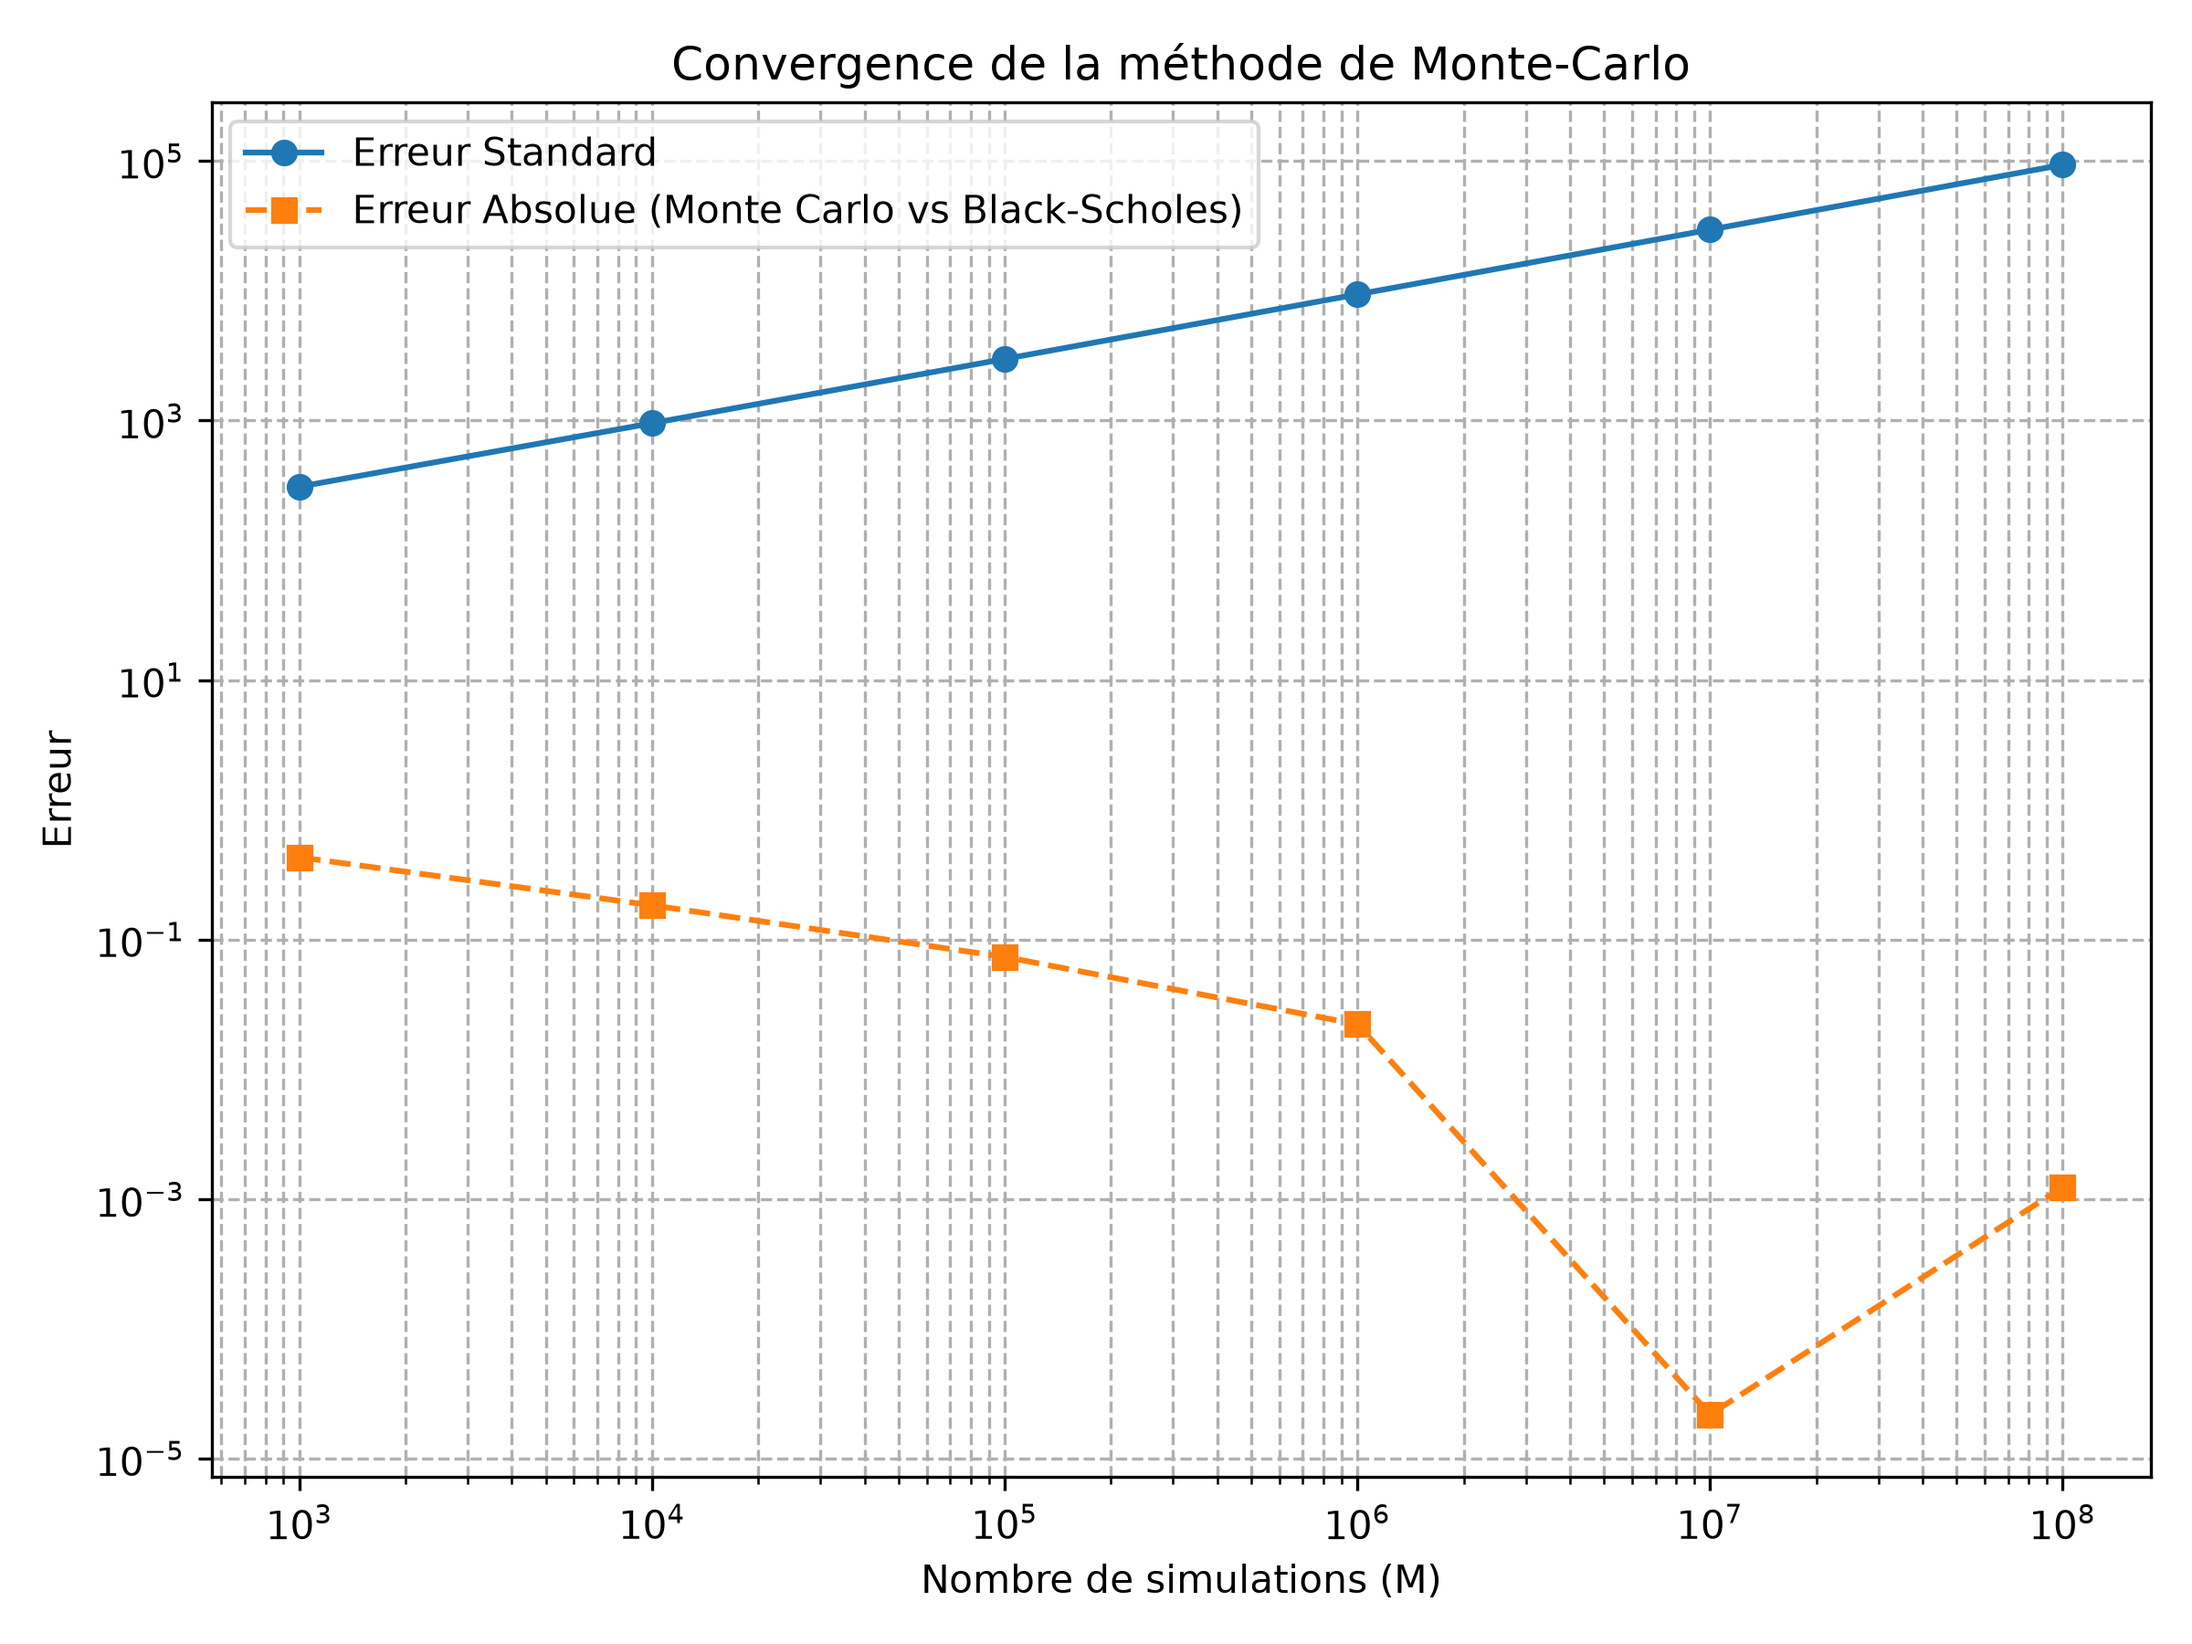
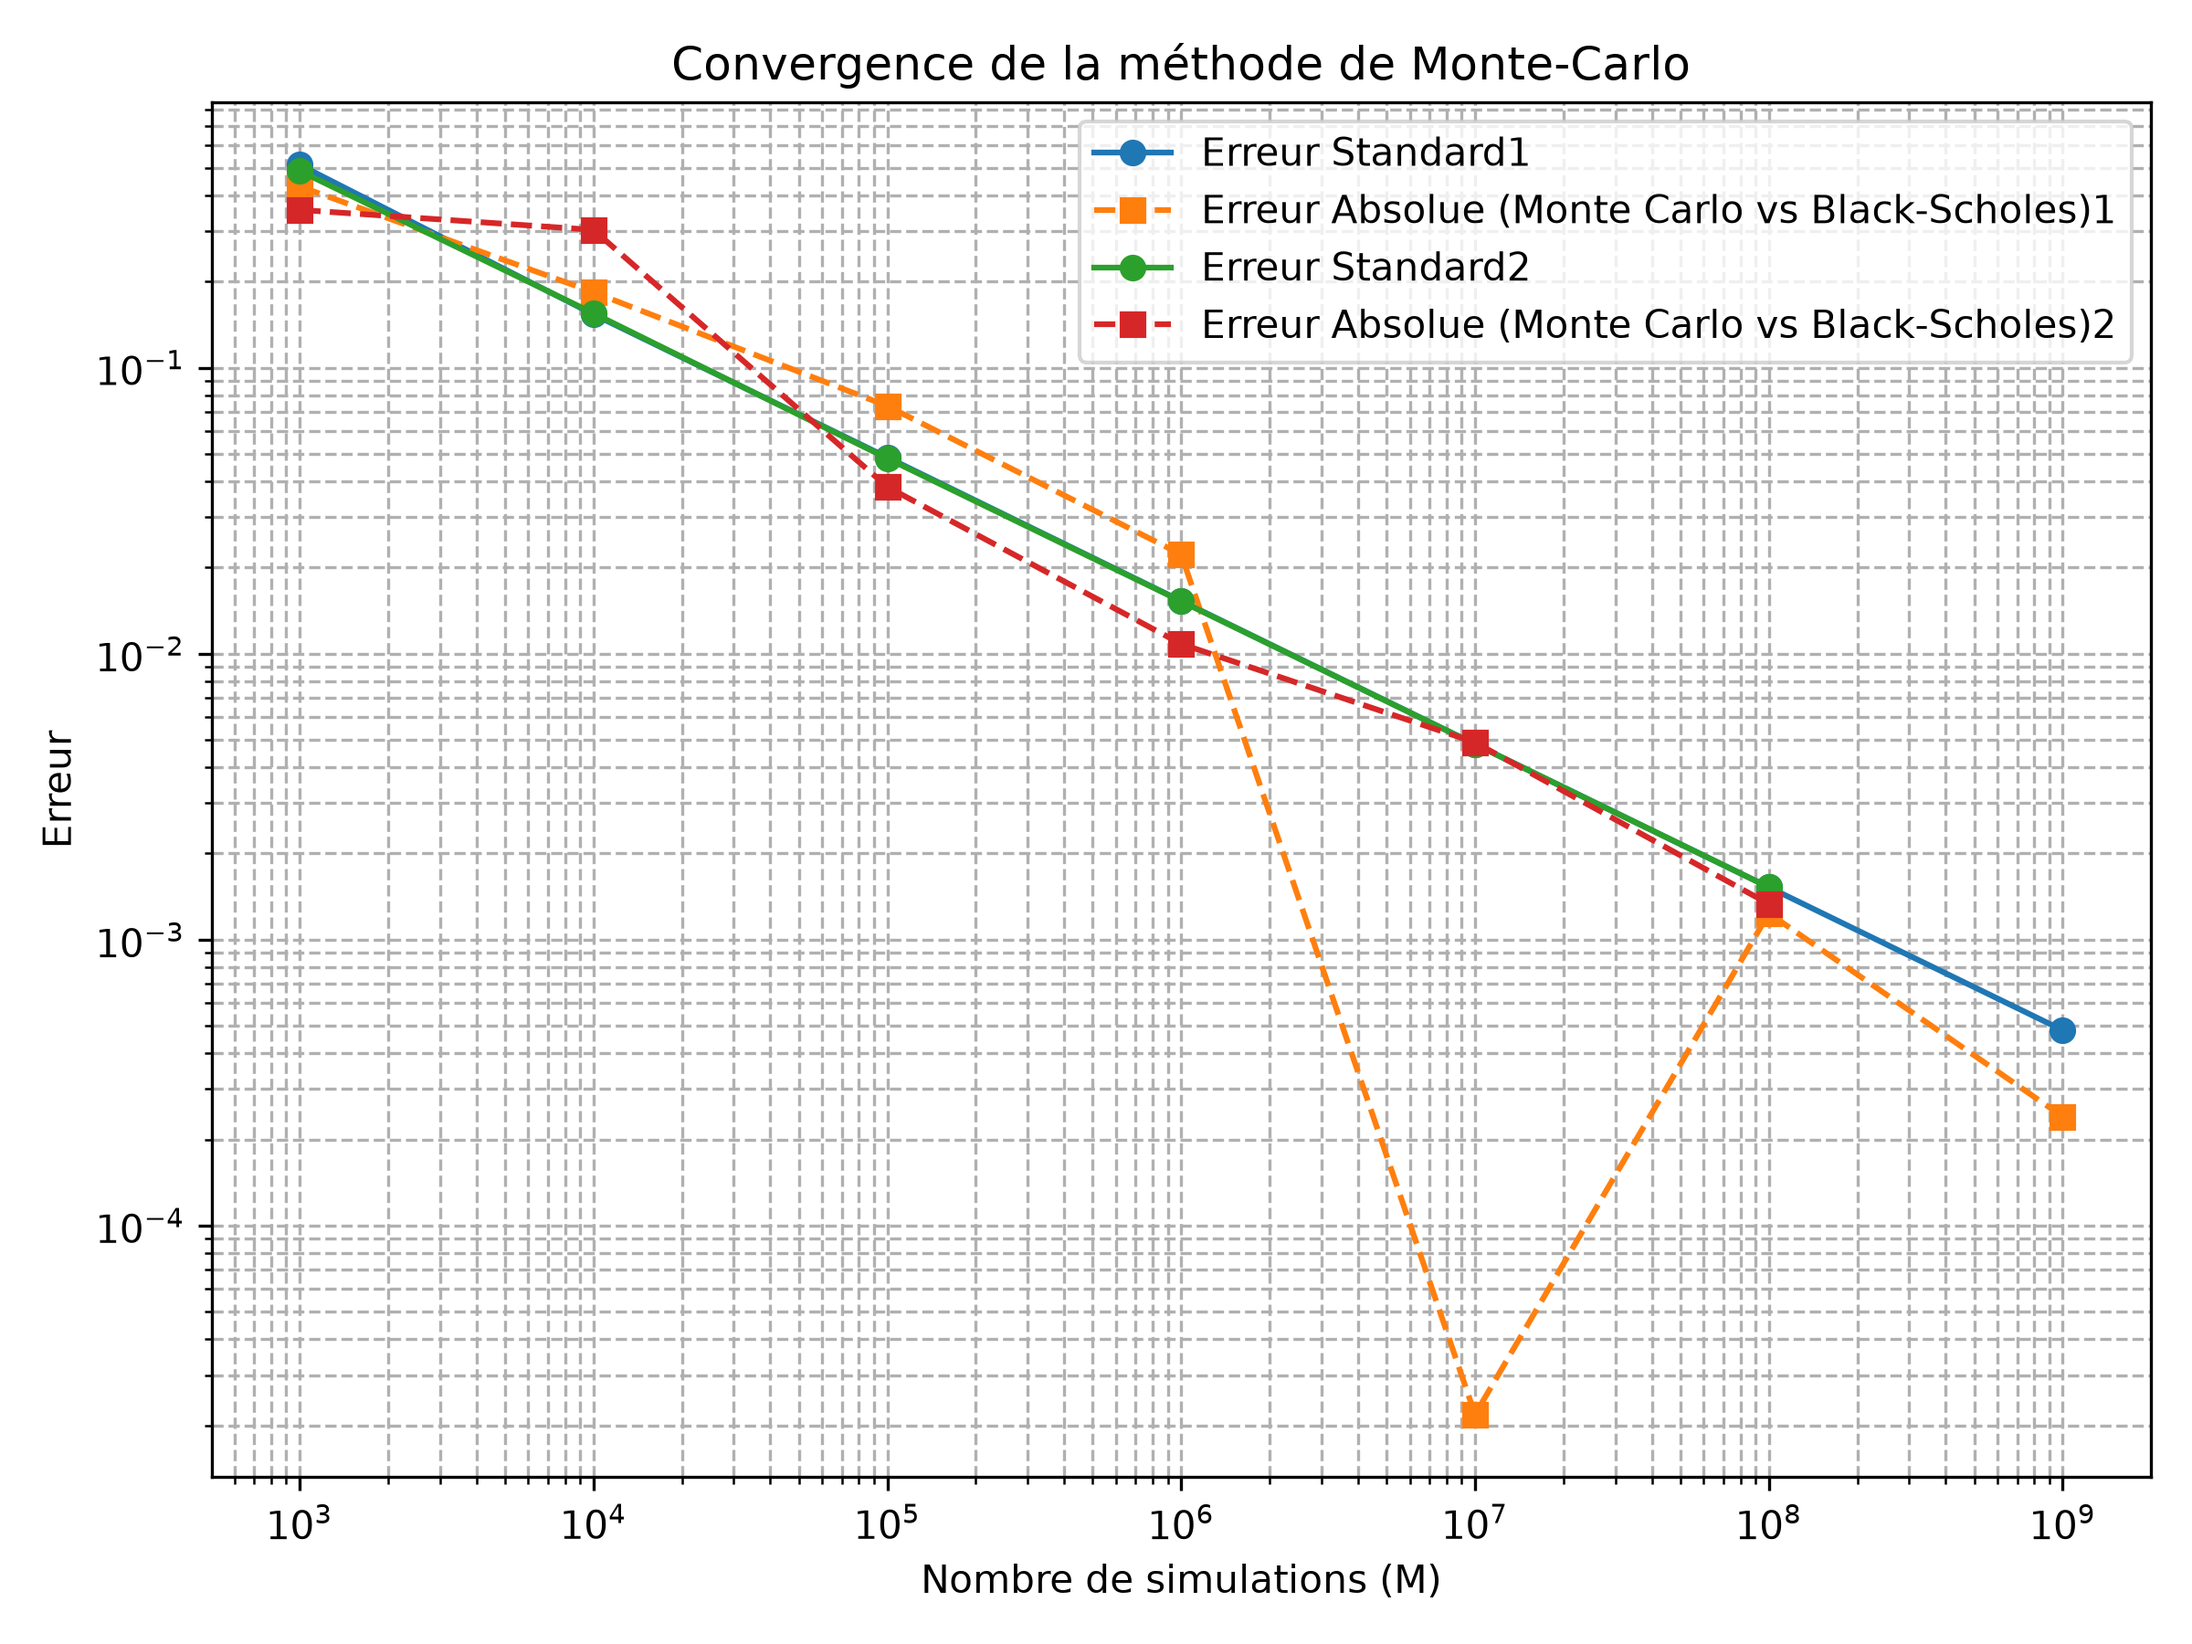
Only one for loop in monte carlo now, less stable but 2 times faster.

Changed region(s): [[0.0312, 0.0622, 0.9688, 0.9333], [0.0312, 0.8711, 0.0625, 0.9022], [0.0312, 0.2178, 0.0625, 0.2489]]

diff --git a/plots/convergence.py b/plots/convergence.py
@@ -2,15 +2,18 @@ import pandas as pd
 import matplotlib.pyplot as plt
 
 df_MC = pd.read_csv("../benchmarks/monte_carlo/monte_carlo_convergence.csv")
+df_MC1234 = pd.read_csv("../benchmarks/monte_carlo/monte_carlo_convergence_1234.csv")
 df_CRR = pd.read_csv("../benchmarks/crr_convergence/crr_convergence.csv")
 
-# For Monte Carlo:
+# For Monte Carlo (42):
 fig, ax = plt.subplots(figsize=(8, 6))
+ax.loglog(df_MC["M"], df_MC["standard_error"], marker="o", linestyle="-", label="Erreur Standard1")
+ax.loglog(df_MC["M"], df_MC["error"], marker="s", linestyle="--", label="Erreur Absolue (Monte Carlo vs Black-Scholes)1")
 
-ax.loglog(df_MC["M"], df_MC["standard_error"], marker="o", linestyle="-", label="Erreur Standard")
-ax.loglog(df_MC["M"], df_MC["error"], marker="s", linestyle="--", label="Erreur Absolue (Monte Carlo vs Black-Scholes)")
+# For Monte Carlo (1234):
+ax.loglog(df_MC1234["M"], df_MC1234["standard_error"], marker="o", linestyle="-", label="Erreur Standard2")
+ax.loglog(df_MC1234["M"], df_MC1234["error"], marker="s", linestyle="--", label="Erreur Absolue (Monte Carlo vs Black-Scholes)2")
 
-ax.set_xlabel("Nombre de simulations (M)")
 ax.set_xlabel("Nombre de simulations (M)")
 ax.set_ylabel("Erreur")
 ax.set_title("Convergence de la méthode de Monte-Carlo")
@@ -20,6 +23,8 @@ ax.grid(True, which="both", ls="--")
 plt.tight_layout()
 plt.savefig("monte_carlo_convergence.png", dpi=300)
 print("Graphique sauvegardé avec succès sous : monte_carlo_convergence.png")
+
+
 
 # For CRR:
 fig, ax = plt.subplots(figsize=(8, 6))

diff --git a/src/monte_carlo.cpp b/src/monte_carlo.cpp
@@ -36,24 +36,13 @@ MonteCarloResult MonteCarlo::price(const Option& o, int M, unsigned long long se
         }
         
         mean += discount * payoff;
+        variance += pow(discount * payoff, 2);
     }
 
-    for (int i = 0; i < M; i++) {
-        long double payoff;
-        long double Z = distribution(generator);
-        long double S = S0 * exp(drift + diffusion * Z);
+    mean = mean / M;
+    variance = (variance - M * mean * mean) / (M - 1);
 
-        if (isCall) {
-            payoff = std::max(S - K, 0.0L);
-        }
-        else {
-            payoff = std::max(K - S, 0.0L);
-        }
-        
-        variance += pow(discount * payoff - mean, 2) / (M - 1);
-    }
-
-    result.price = mean / M;
+    result.price = mean;
     result.standardError = sqrt(variance / M);
     result.confidenceHigh = result.price + 1.96L * result.standardError;
     result.confidenceLow = result.price - 1.96L * result.standardError;

diff --git a/benchmarks/monte_carlo/convergence.cpp b/benchmarks/monte_carlo/convergence.cpp
@@ -24,7 +24,7 @@ int main() {
     long double exactPrice = BlackSholes::price(option);
 
     std::vector<int> simulations = { 1000, 10000, 100000, 1000000, 10000000, 100000000};
-    std::ofstream file("monte_carlo_convergence.csv");
+    std::ofstream file("monte_carlo_convergence_1234.csv");
 
     if (!file.is_open()) {
         std::cerr << "Error during CSV file opening\n";
@@ -33,7 +33,7 @@ int main() {
 
     file << "M,price,standard_error,error,ci_low,ci_high,time\n";
 
-    const uint64_t seed = 42;
+    const uint64_t seed = 1234;
 
     std::cout << std::fixed << std::setprecision(10);
 
